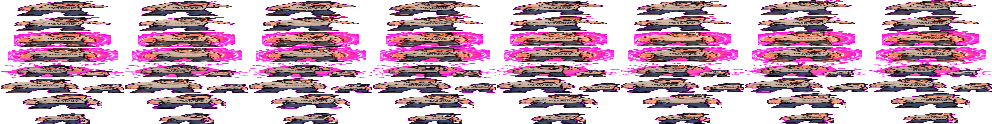
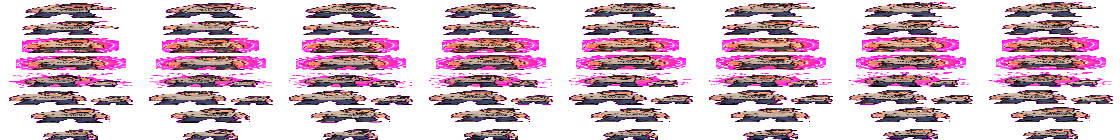
File changes

diff --git a/src/game/art/characterSprites.js b/src/game/art/characterSprites.js
@@ -143,13 +143,13 @@ dirty:Object.freeze(tech('blob',90,98,
 // baked mini-composite poses (burst+mini etc.) were excluded — minis are
 // simulated as independent entities at runtime instead.
 pete:Object.freeze((()=>{
-  const d=tech('pete',96,120,
-    {atlasW:96,atlasH:120,cellW:96,cellH:120,frames:1},
-    {atlasW:462,atlasH:118,cellW:77,cellH:118,frames:6},
-    {atlasW:455,atlasH:117,cellW:65,cellH:117,frames:7},
-    {atlasW:376,atlasH:104,cellW:94,cellH:104,frames:4},
-    {atlasW:500,atlasH:139,cellW:125,cellH:139,frames:4});
-  return {...d,worldSize:58,idleBreathFrames:1,specialActivationFrames:4,specialFps:4,specialDuration:1.2};
+  const d=tech('pete',124,124,
+    {atlasW:124,atlasH:124,cellW:124,cellH:124,frames:1},
+    {atlasW:744,atlasH:124,cellW:124,cellH:124,frames:6},
+    {atlasW:744,atlasH:124,cellW:124,cellH:124,frames:6},
+    {atlasW:496,atlasH:124,cellW:124,cellH:124,frames:4},
+    {atlasW:1120,atlasH:140,cellW:140,cellH:140,frames:8});
+  return {...d,worldSize:58,idleBreathFrames:1,specialActivationFrames:8,specialFps:8,specialDuration:1.2};
 })()),
 squirrel:Object.freeze({
   atlas:'/assets/squirrel/idle-front.png',attack:'/assets/squirrel/fec-attack.png',portrait:'/assets/squirrel/portrait.png',manifest:'/assets/squirrel/animation.json',
